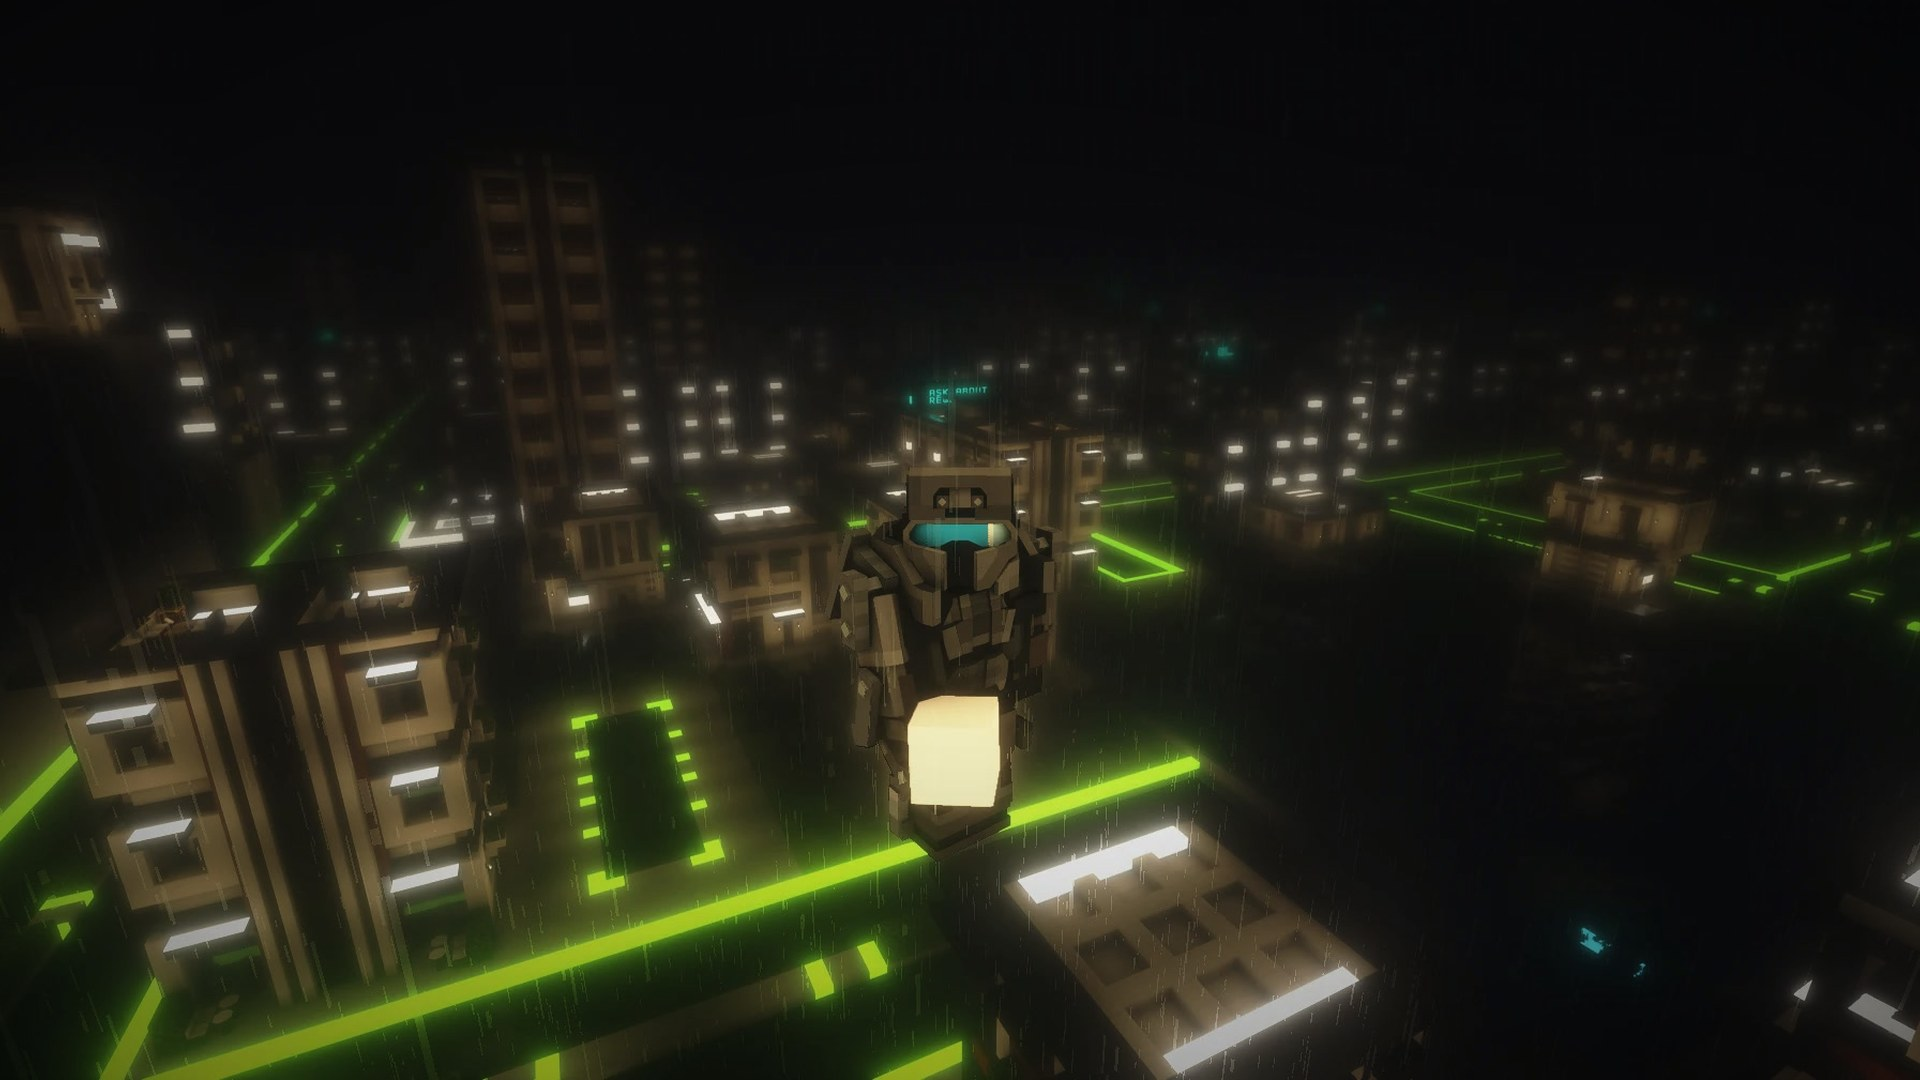
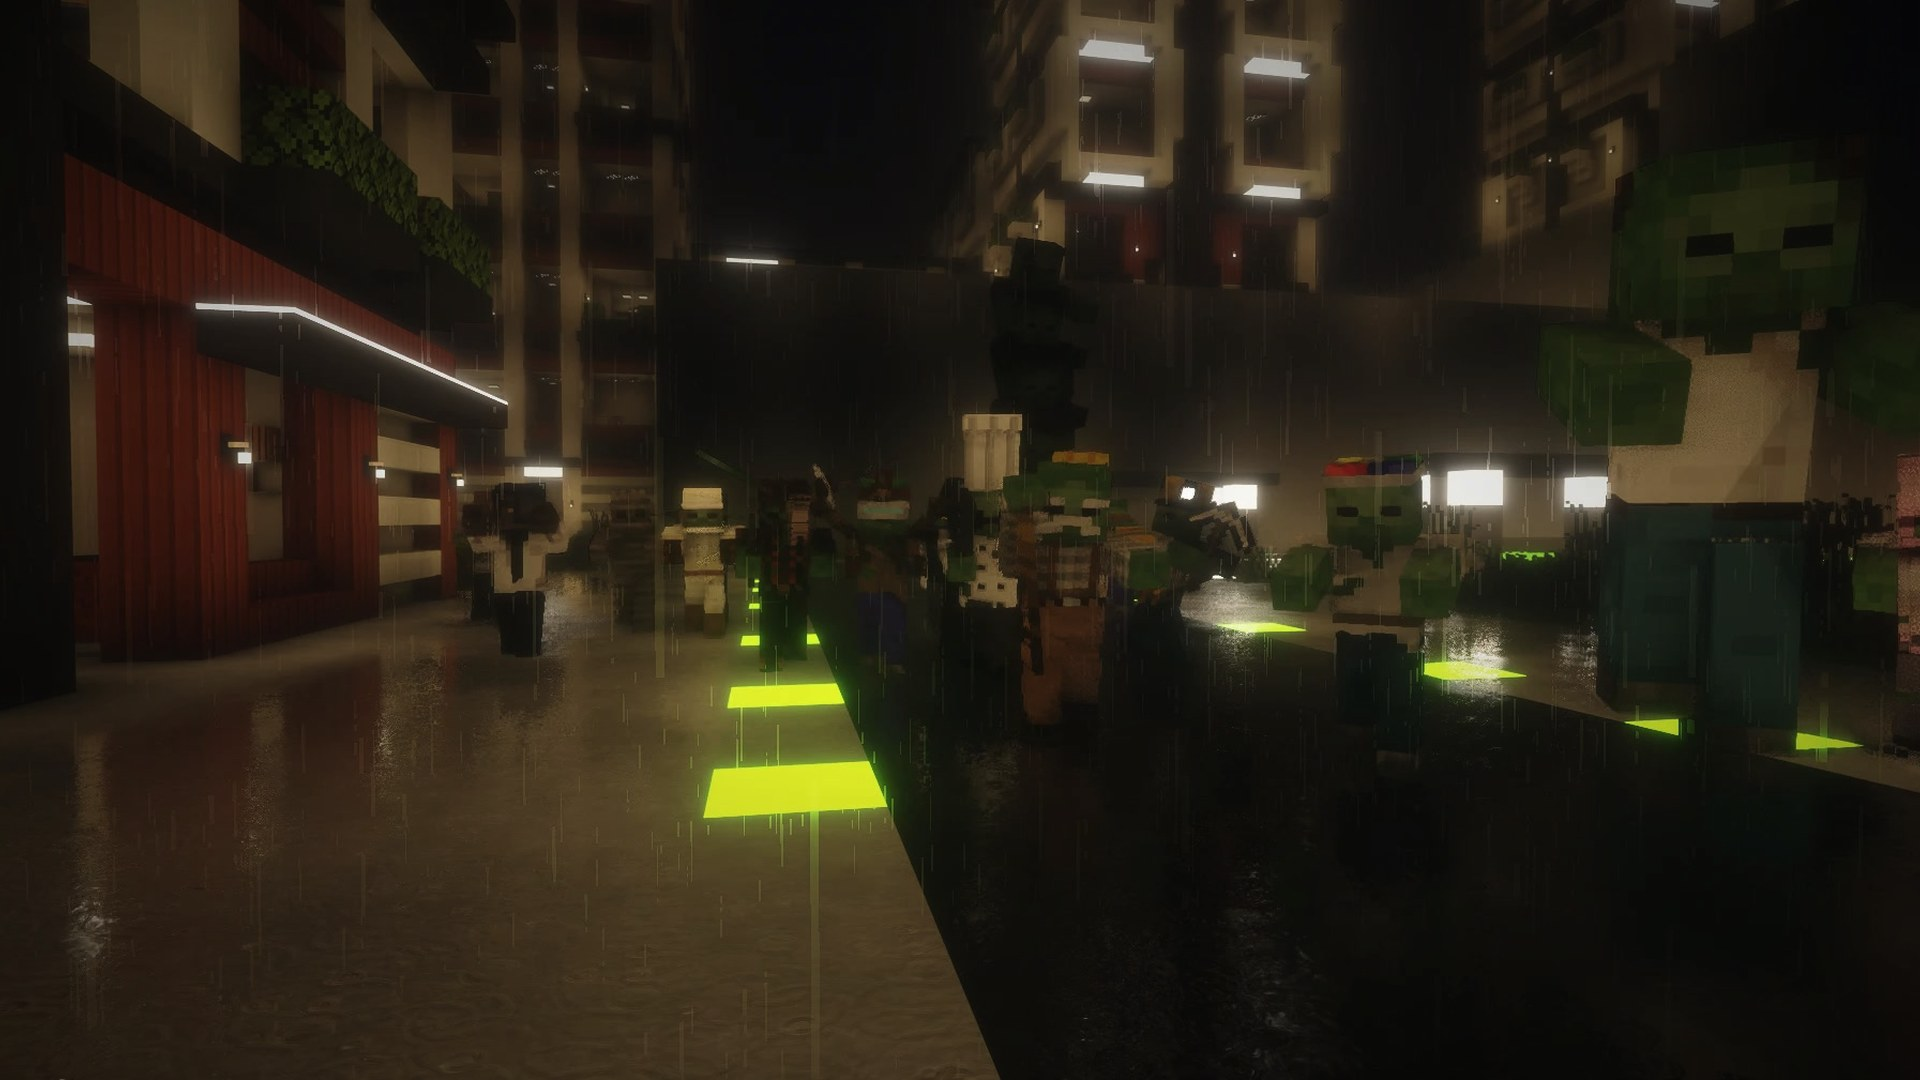
4.1.1 (not yet released): ABZA Shader 2.0.0 and Shaders Companion 2.0.0 (Companion's copy, ABZA Shader.zip, selected; both packs' settings), the title screen's new pictures, the changelog.

diff --git a/CHANGELOG.md b/CHANGELOG.md
@@ -14,6 +14,8 @@ Carries on in a 4.1.0 world. A server needs the 4.1.1 server pack.
 - Plazas, hydro gardens and playgrounds are rarer.
 - Hired guards sit higher in vehicle seats.
 - The Tier 2 Material Pack takes an emerald in place of one lead ingot.
+- ABZA Shader 2.0.0 and Shaders Companion 2.0.0.
+- New title screen pictures.
 - Includes 4.1.0-hotfix's JEI fix for servers.
 
 ## [4.1.0-hotfix] CLIENT
